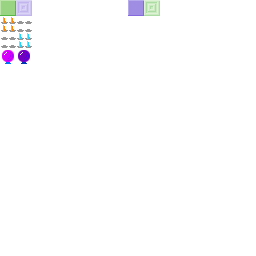
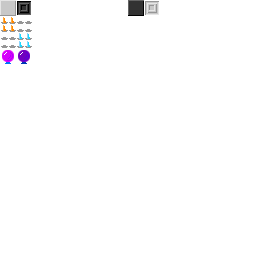
gfx improvements

Changed region(s): [[0.5, 0.0, 0.625, 0.0625], [0.0, 0.0, 0.125, 0.0625]]

diff --git a/core/src/com/chrizel/ld30/systems/MapSystem.java b/core/src/com/chrizel/ld30/systems/MapSystem.java
@@ -194,9 +194,9 @@ public class MapSystem extends VoidEntitySystem {
         TagManager tagManager = world.getManager(TagManager.class);
 
         if (activeMap == 0) {
-            Gdx.gl.glClearColor(.9f, 1f, .9f, 1);
+            Gdx.gl.glClearColor(.94f, .94f, .94f, 1);
         } else {
-            Gdx.gl.glClearColor(1f, .9f, 1f, 1);
+            Gdx.gl.glClearColor(.43f, .43f, .43f, 1);
         }
 
         Gdx.gl.glClear(GL20.GL_COLOR_BUFFER_BIT);

diff --git a/core/src/com/chrizel/ld30/systems/PortalSystem.java b/core/src/com/chrizel/ld30/systems/PortalSystem.java
@@ -17,7 +17,7 @@ public class PortalSystem extends EntityProcessingSystem {
     ComponentMapper<PositionComponent> pm;
     ComponentMapper<Collider> cm;
 
-    Collider portalCollider = new Collider(16f, 16f);
+    Collider portalCollider = new Collider(8f, 8f);
 
     public PortalSystem() {
         super(Aspect.getAspectForAll(PortalComponent.class, PositionComponent.class));
